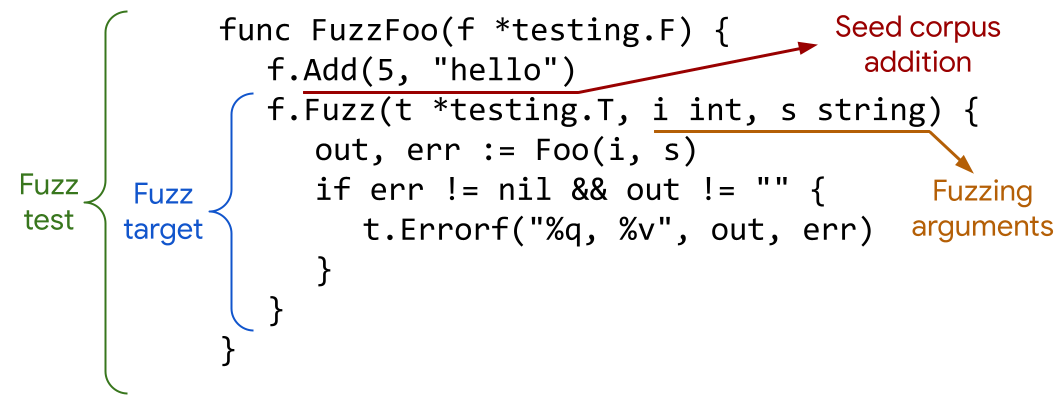
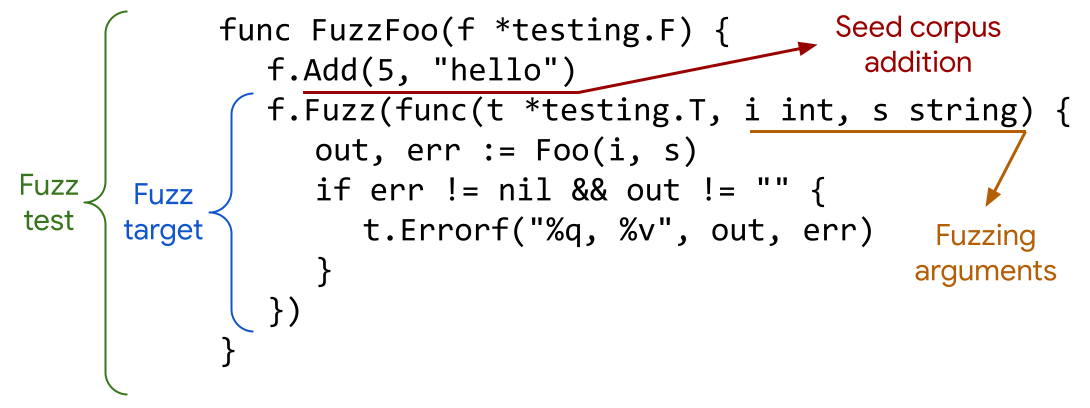
_content/doc/fuzz: fix example
Also fix the formatting of the doc.

For golang/go#48255
Fixes golang/go#50142

Trust: DO NOT USE <katiehockman@google.com>
Run-TryBot: DO NOT USE <katiehockman@google.com>
TryBot-Result: Gopher Robot <gobot@golang.org>

diff --git a/_content/doc/fuzz/index.md b/_content/doc/fuzz/index.md
@@ -33,38 +33,42 @@ components.
 ## Writing and running fuzz tests
 
 ### Requirements
+
 Below are rules that fuzz tests must follow.
-  - A fuzz test must be a function named like `FuzzXxx`, which accepts only a
-    `*testing.F`, and has no return value.
-  - Fuzz tests must be in *_test.go files to run.
-  - A [fuzz target](#glos-fuzz-target) must be a method call to
-    <code>[(*testing.F).Fuzz](https://pkg.go.dev/testing#F.Fuzz)</code> which
-    accepts a `*testing.T` as the first parameter, followed by the fuzzing
-    arguments. There is no return value.
-  - There must be exactly one fuzz target per fuzz test.
-  - All [seed corpus](#glos-seed-corpus) entries must have types which are
-    identical to the [fuzzing arguments](#fuzzing-arguments), in the same order.
-    This is true for calls to
-    <code>[(*testing.F).Add](https://pkg.go.dev/testing#F.Add)</code> and any
-    corpus files in the testdata/fuzz directory of the fuzz test.
-  - The fuzzing arguments can only be the following types:
-    - string, []byte
-    - int, int8, int16, int32/rune, int64
-    - uint, uint8/byte, uint16, uint32, uint64
-    - float32, float64
-    - bool
+
+- A fuzz test must be a function named like `FuzzXxx`, which accepts only a
+  `*testing.F`, and has no return value.
+- Fuzz tests must be in \*\_test.go files to run.
+- A [fuzz target](#glos-fuzz-target) must be a method call to
+  <code>[(\*testing.F).Fuzz](https://pkg.go.dev/testing#F.Fuzz)</code> which
+  accepts a `*testing.T` as the first parameter, followed by the fuzzing
+  arguments. There is no return value.
+- There must be exactly one fuzz target per fuzz test.
+- All [seed corpus](#glos-seed-corpus) entries must have types which are
+  identical to the [fuzzing arguments](#fuzzing-arguments), in the same order.
+  This is true for calls to
+  <code>[(\*testing.F).Add](https://pkg.go.dev/testing#F.Add)</code> and any
+  corpus files in the testdata/fuzz directory of the fuzz test.
+- The fuzzing arguments can only be the following types:
+  - string, []byte
+  - int, int8, int16, int32/rune, int64
+  - uint, uint8/byte, uint16, uint32, uint64
+  - float32, float64
+  - bool
 
 ### Suggestions
+
 Below are suggestions that will help you get the most out of fuzzing.
-  - Fuzzing should be run on a platform that supports coverage instrumentation
-    (currently AMD64 and ARM64) so that the corpus can meaningfully grow as it
-    runs, and more code can be covered while fuzzing.
-  - Fuzz targets should be fast and deterministic so the fuzzing engine can work
-    efficiently, and new failures and code coverage can be easily reproduced.
-  - Since the fuzz target is invoked in parallel across multiple workers and in
-    nondeterministic order, the state of a fuzz target should not persist past
-    the end of each call, and the behavior of a fuzz target should not depend on
-    global state.
+
+- Fuzzing should be run on a platform that supports coverage instrumentation
+  (currently AMD64 and ARM64) so that the corpus can meaningfully grow as it
+  runs, and more code can be covered while fuzzing.
+- Fuzz targets should be fast and deterministic so the fuzzing engine can work
+  efficiently, and new failures and code coverage can be easily reproduced.
+- Since the fuzz target is invoked in parallel across multiple workers and in
+  nondeterministic order, the state of a fuzz target should not persist past
+  the end of each call, and the behavior of a fuzz target should not depend on
+  global state.
 
 ## Resources
 
@@ -86,7 +90,7 @@ Below are suggestions that will help you get the most out of fuzzing.
 <a id="glos-corpus-entry"></a>
 **corpus entry:** An input in the corpus which can be used while fuzzing. This
 can be a specially-formatted file, or a call to
-<code>[(*testing.F).Add](https://pkg.go.dev/testing#F.Add)</code>.
+<code>[(\*testing.F).Add](https://pkg.go.dev/testing#F.Add)</code>.
 
 <a id="glos-coverage-guidance"></a>
 **coverage guidance:** A method of fuzzing which uses expansions in code
@@ -96,7 +100,7 @@ coverage to determine which corpus entries are worth keeping for future use.
 **fuzz target:** The function of the fuzz test which is executed for corpus
 entries and generated values while fuzzing. It is provided to the fuzz test by
 passing the function to
-<code>[(*testing.F).Fuzz](https://pkg.go.dev/testing#F.Fuzz)</code>.
+<code>[(\*testing.F).Fuzz](https://pkg.go.dev/testing#F.Fuzz)</code>.
 
 <a id="glos-fuzz-test"></a>
 **fuzz test:** A function in a test file of the form `func FuzzXxx(*testing.F)`
